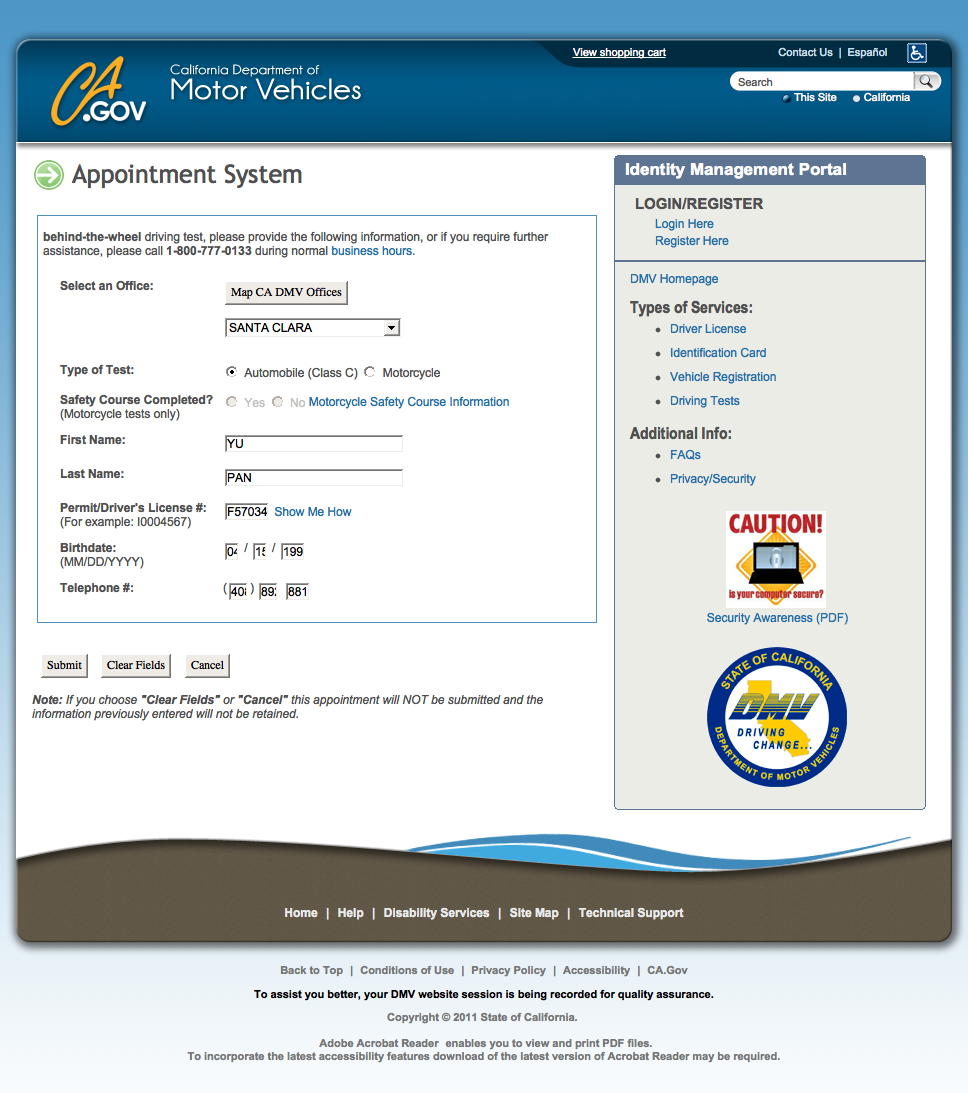
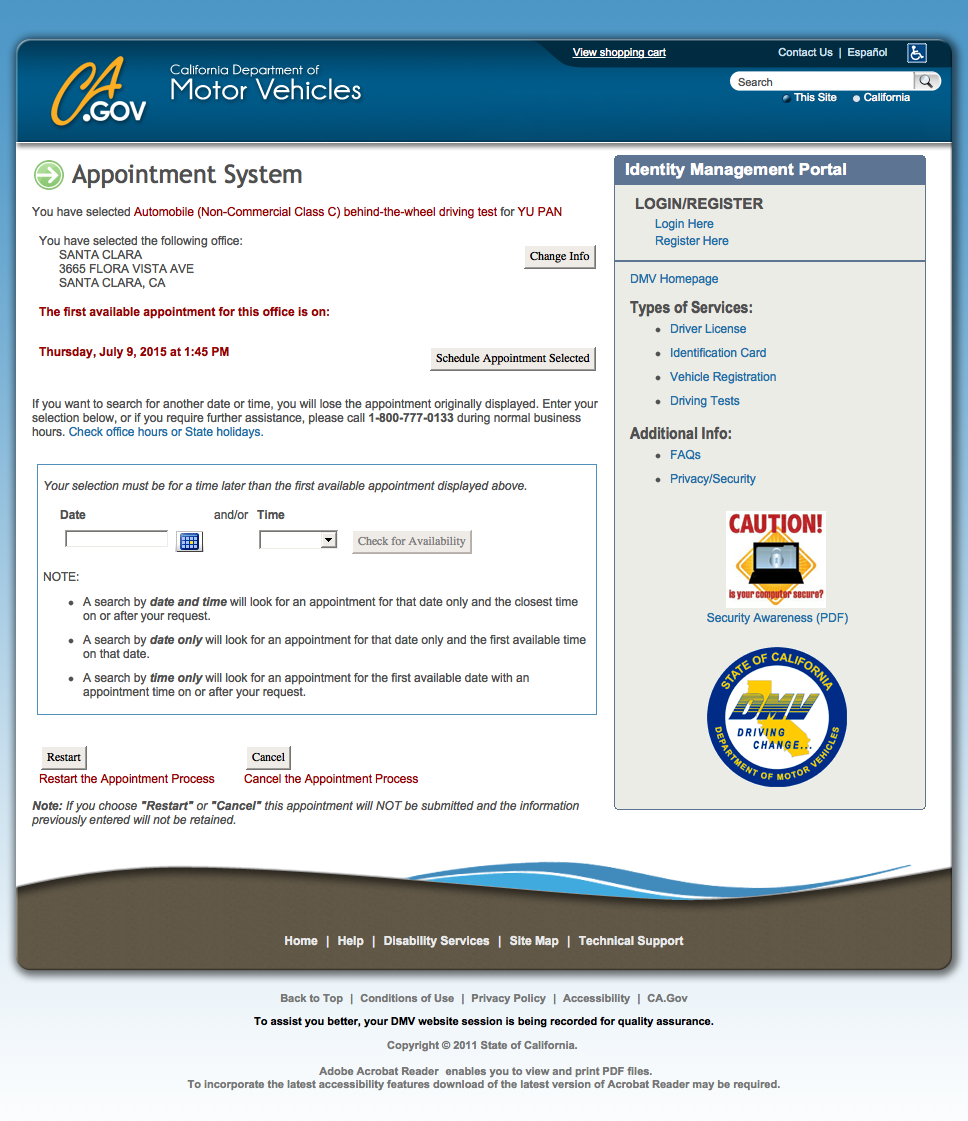
submission credentials to enter next page

Changed region(s): [[0.0, 0.0311, 0.9917, 0.9954], [0.5579, 0.0311, 0.9917, 0.0933]]

diff --git a/dynamic_scraping/phantom_test.js b/dynamic_scraping/phantom_test.js
@@ -1,7 +1,6 @@
 var url = 'https://www.dmv.ca.gov/foa/clear.do?goTo=driveTest',
   jquery = 'http://ajax.googleapis.com/ajax/libs/jquery/1.6.1/jquery.min.js';
 
-
 var Q = require('q');
 
 var openPage = function (page, url) {
@@ -16,12 +15,13 @@ var includeJS = function (page) {
   return deferred.promise;
 };
 
-var evaluatePage = function (page) {
+var fillFields = function (page) {
   var deferred = Q.defer();
   page.evaluate( function() {
     /*
      * declare VARIABLES here, don't ask my why I couldn't do it outside..i'll fig it out later
      * */
+
     document.querySelector("select#officeId").value = SANTA_CLARA;
     document.querySelector("input[name='firstName']").value = FIRST_NAME;
     document.querySelector("input[name='lastName']").value = LAST_NAME;
@@ -37,32 +37,19 @@ var evaluatePage = function (page) {
   return deferred.promise;
 };
 
+var clickSubmit = function (page) {
+  var deferred = Q.defer();
+  page.evaluate( function () {
+    document.querySelector("input[value='Submit']").click();
+    console.log('cool');
+  });
+};
+
 var screenCapture = function (page) {
   var deferred = Q.defer();
   page.render('image.png');
   return deferred.promise;
 };
-
-/*openPage(page, url).then(function() {
-  includeJs(page);
-  evaluatePage(function() {
-  document.querySelector("select#officeId").value = SANTA_CLARA;
-  document.querySelector("input[name='firstName']").value = FIRST_NAME;
-  document.querySelector("input[name='lastName']").value = LAST_NAME;
-  document.querySelector("input[name='dlNumber']").value = DL_NUMBER;
-  document.querySelector("input[name='birthMonth']").value = B_MONTH;
-  document.querySelector("input[name='birthDay']").value = B_DAY;
-  document.querySelector("input[name='birthYear']").value = B_YEAR;
-  document.querySelector("input[name='telArea']").value = TEL_AREA;
-  document.querySelector("input[name='telPrefix']").value = TEL_PREFIX;
-  document.querySelector("input[name='telSuffix']").value = TEL_SUFFIX;
-  document.querySelector("input[name='requestedTask'][value='DT']:checked");
-  $("button[type=submit]").click();
-  });
-  screenCapture(page);
-  phantom.exit();
-  });
-  */
 
 var page = require('webpage').create();
 
@@ -71,14 +58,20 @@ openPage(page, url)
   includeJS(page);
   console.log('BIG POO'); // step 1
 })
-.then(function() {
+.then( function() {
   console.log('middling poo'); // step 2
-  evaluatePage(page);
+  fillFields(page);
 })
 .then( function() {
-  console.log('poo'); // step 3
-  screenCapture(page);
-  phantom.exit();
+  console.log('another middling poo'); // step 3
+  clickSubmit(page);
+})
+.then( function() {
+  console.log('poo'); // step 4
+  setTimeout(function() {
+    screenCapture(page);
+    phantom.exit();
+  }, 5000);
 });
 
 
